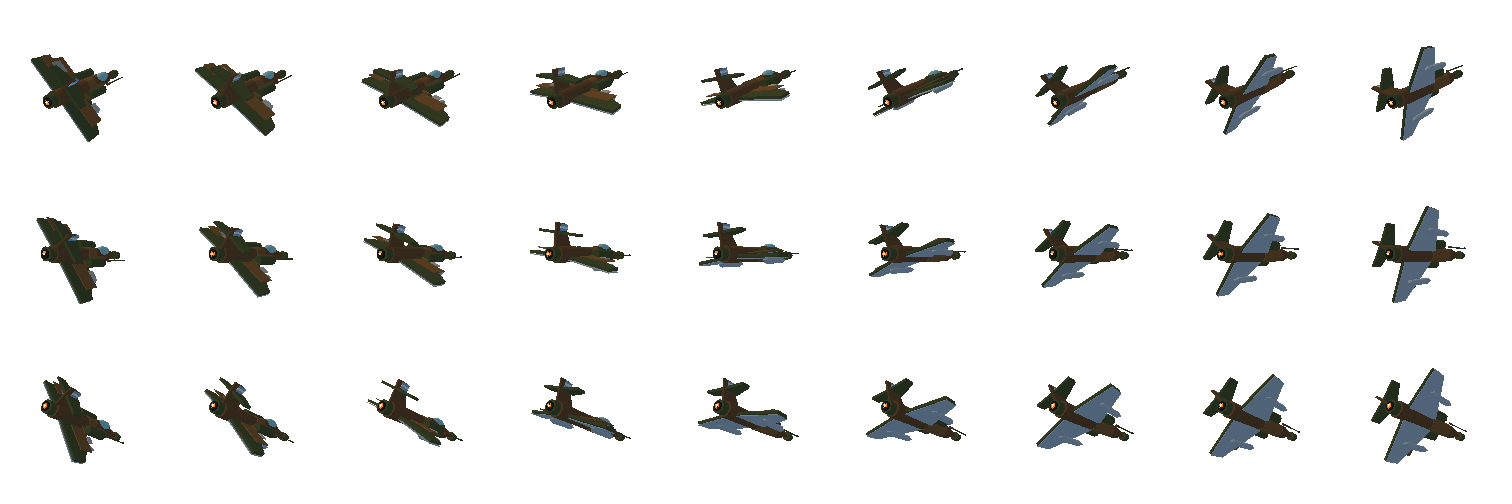
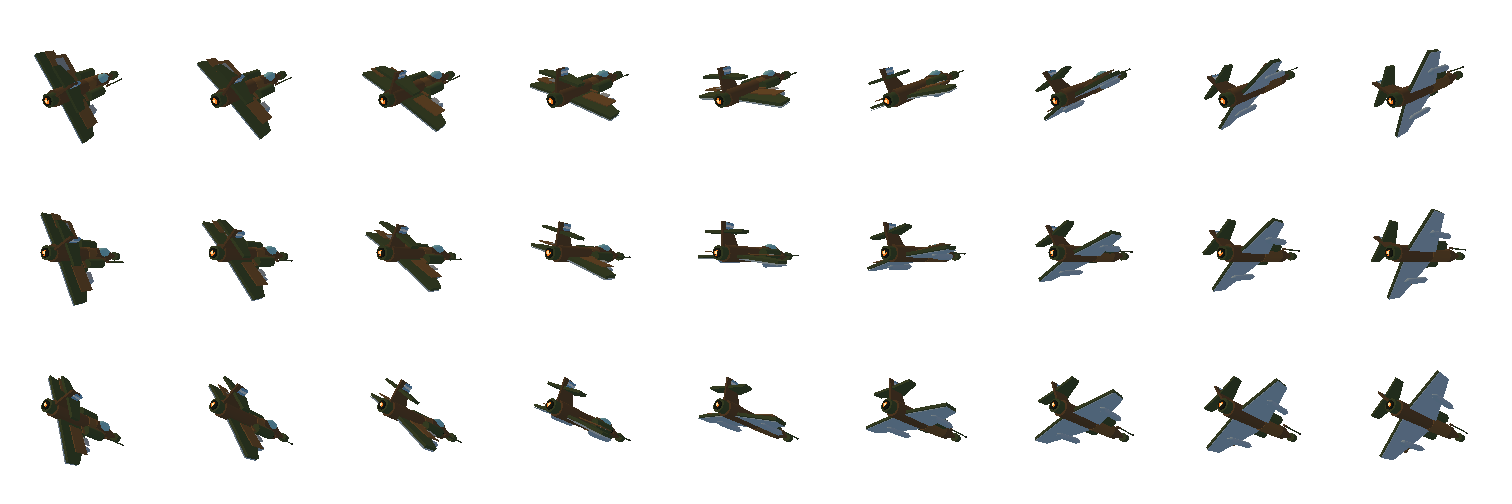
rasante: las alas VUELVEN AL AGUA — un 3/4 fotografico se lee como un viraje
Dos correcciones de Matias sobre la hoja del poder, y las dos tienen la misma forma: la
geometria estaba bien y la LECTURA estaba mal.

1. "Esta muy inclinado de base como si estuviese bajando." Cierto, y es la contracara de mirar
   desde abajo: la trompa esta mas lejos, se proyecta hacia abajo, y un avion nivelado se dibuja
   bajando. Se compensa levantandole la nariz al modelo.

2. "Esta como tocando el agua con un ala, como si estuviese doblando." Tambien cierto, y mas
   interesante: en un tres cuartos REAL las alas no quedan horizontales en pantalla. Medido
   sobre el alfa — la hoja base tiene su linea de alas en 0,00° exactos y la del poder, sin
   compensar, en -6,05°. O sea que una foto correcta se lee como un viraje. En un juego donde
   el alabeo ES una mecanica, eso no es un detalle estetico: es informacion equivocada.

EL BARRIDO SE MIDIO CON LAS DOS MAGNITUDES A LA VEZ (linea de alas y eje del fuselaje) porque
estan ACOPLADAS: sobre un modelo ya girado en yaw, cabecear tambien le inclina las alas. Por eso
la primera pasada —que solo miraba el eje— dejo las alas peor. Ganador: cabeceo +6 y alabeo -8,
con las alas en -0,86° y el eje en -1,98°. Las dos paralelas al agua, y el 3/4 entero intacto.

Y SE VA LA ROTACION DEL CARRIL, que fue el intento del medio y salio mal. Alineaba el avion con
el punto de fuga —geometricamente impecable: toda recta paralela al eje de vuelo converge ahi, y
[…]

diff --git a/src/render/plane.js b/src/render/plane.js
@@ -7,7 +7,7 @@
 // Recibe `selPlane` (que avion eligio el jugador — estado de menu, vive en game.js) y `viewMouse`
 // (resuelve la mira segun la camara — la camara sigue en game.js). El resto lo lee de los stores.
 
-import { ctx, px, PZ, U, W, HOR } from './ctx.js';
+import { ctx, px, PZ, U } from './ctx.js';
 import { plane, cfg, S } from '../core/state.js';
 import { run } from '../core/run.js';
 import { inp } from '../core/input.js';
@@ -606,12 +606,6 @@ export function drawPlane(selPlane, viewMouse, camScale, ras) {
   // camara que rola con el. hz vale justo lo que hay que restar. Con FIJO vale 0 y todo esto se
   // comporta igual que siempre. Ver core/horizon.js.
   const hz = hzSprite();
-  // ¿SE VA A DIBUJAR CON LA HOJA DEL PODER? Se resuelve aca arriba —y no adentro de la rama— por
-  // el mismo motivo que la pose: el giro del sprite lo consume tambien la estela, que se dibuja
-  // despues del restore(). La pirueta empinada gana (ver la rama de dibujo), asi que no cuenta.
-  const skRas = ras && rosterActive() ? skinOf(pilotName(pilotIdx(run.squad, run.lives))) : null;
-  const rasTilt = !!(ras && useSheet && !run.mvSteep
-    && (skRas ? skRas.sheet3Img : pl.sheet3Ok));
   // EL GIRO TOTAL DEL SPRITE, resuelto en UN SOLO LUGAR.
   //
   // Antes cada rama llamaba a `ctx.rotate` por su cuenta y el angulo se perdia ahi adentro. La
@@ -627,29 +621,17 @@ export function drawPlane(selPlane, viewMouse, camScale, ras) {
   const pcPose = Math.max(-1, Math.min(1, plane.pitch));
   const rowPose = pcPose > 0.33 ? 0 : pcPose < -0.33 ? 2 : 1;
   const prRoll = rolling ? Math.min(1, run.mvT / MOVES.tonel.dur) : 0;   // 0→1 durante el tonel
-  // EL SPRITE DEL PODER SE ALINEA CON EL CARRIL, no con la horizontal de la pantalla.
-  //
-  // Lo pidio Matias con el mejor criterio posible: "usa como referencia la linea roja del
-  // objetivo, tiene que quedar paralela con la trompa del avion". Y tiene razon — no es gusto,
-  // es la proyeccion. Toda recta paralela al eje +z (las lineas del carril, la estela, el
-  // fuselaje del avion) converge en el MISMO punto de fuga, que en esta proyeccion es
-  // (W/2, HOR). Durante el poder la camara se corre 10 unidades al costado, asi que el avion
-  // queda ~96 px a la izquierda de ese punto: su eje YA NO es horizontal en pantalla, apunta al
-  // punto de fuga. La hoja esta horneada con el eje recto dentro del frame, asi que lo unico que
-  // falta es girarla ese angulo.
-  //
-  // SE CALCULA, NO SE TABULA: sale de la posicion proyectada del avion, asi que acompaña solo
-  // cuando el jugador se corre por el carril (el angulo va de 12° a 26° de punta a punta). Sin el
-  // poder vale 0 y no se toca nada.
-  //
-  // No degenera: el poder garantiza `lat` = 10, o sea al menos 45 px de corrimiento — el caso
-  // patologico (avion justo sobre el eje optico, donde la direccion de fuga es vertical) no puede
-  // ocurrir mientras esta hoja se dibuja.
-  const carril = rasTilt ? Math.atan2(HOR - s.y, W / 2 - s.x) : 0;
-  const spinTot = (rolling ? run.mvRoll + hz
+  // EL SPRITE DEL PODER NO SE GIRA, Y SE PROBO AL REVES. Un rato existio aca una rotacion que
+  // alineaba el avion con el punto de fuga del carril — geometricamente impecable: toda recta
+  // paralela al eje de vuelo converge ahi, y durante el poder el avion queda 96 px al costado,
+  // asi que su eje en pantalla NO es horizontal. El problema es que un sprite es plano: rotarlo
+  // 16° no le cabecea la trompa, le ROLA las alas, y el avion pasaba a leerse virando con una
+  // punta en el agua. Lo corrige la HOJA (cabeceo y alabeo compensados en el horneado), que es el
+  // unico lugar donde se puede inclinar una cosa sin inclinar la otra.
+  const spinTot = rolling ? run.mvRoll + hz
     : run.mvRoll ? run.mvRoll + hz + wob
     : useSheet ? wob
-    : bank * 0.42 + wob) + carril;
+    : bank * 0.42 + wob;
   ctx.rotate(spinTot);
   if (rolling) ctx.scale(0.94 + 0.06 * Math.cos(prRoll * Math.PI * 2), 1);   // leve pulso: vende el giro
   else if (!run.mvRoll && !useSheet) ctx.scale(1 - Math.abs(bank) * 0.26, 1 - plane.pitch * 0.05);

diff --git a/tools/bake_planes.html b/tools/bake_planes.html
@@ -75,11 +75,25 @@
     // estuviese bajando". Es el mismo efecto que ya habia aparecido en la Chancha.
     //
     // Se corrige levantandole la nariz al MODELO hasta que su eje quede horizontal DENTRO del
-    // frame. El numero no se eligio a ojo: se horneo un barrido 0/3/5/7/10 y se midio el angulo
-    // del eje sobre el alfa (la punta mas a la derecha contra el centroide del naranja del
-    // escape). Da -9.72° sin compensar, -2.83° con +5 y **-0.21° con +7**, que es recto.
-    // Si se toca RAS_ELEV hay que volver a medirlo: la compensacion es del orden de 0,7 * elev.
-    const RAS_PITCH = 7;
+    // frame. El numero no se eligio a ojo: se horneo un barrido y se midio el angulo del eje
+    // sobre el alfa (la punta mas a la derecha contra el centroide del naranja del escape).
+    const RAS_PITCH = 6;
+    // Y LA COMPENSACION DE ALABEO, que aparecio despues y por el mismo camino: Matias vio el
+    // avion "como tocando el agua con un ala, como si estuviese doblando". Tambien es cierto, y
+    // tambien es la proyeccion — en un tres cuartos REAL las alas NO quedan horizontales en
+    // pantalla: la hoja base tiene su linea de alas en 0,00° exactos y esta, sin compensar, en
+    // -6,05°. O sea que un 3/4 fotografico se lee como un viraje, y en un juego donde el alabeo
+    // ES una mecanica eso no es un detalle: es informacion equivocada.
+    //
+    // Se corrige rolando el modelo hasta que la linea de alas vuelva a cero. Se midio un barrido
+    // de yaw x alabeo con las dos magnitudes a la vez (linea de alas Y eje del fuselaje), porque
+    // estan ACOPLADAS: sobre un modelo ya girado en yaw, cabecear tambien inclina las alas.
+    // El ganador es este: alas -0,86° y eje -1,98°, las dos paralelas al agua.
+    //
+    // LO QUE CUESTA, dicho en voz alta: la columna del medio deja de ser "alabeo 0 del mundo" y
+    // pasa a ser "alabeo 0 EN PANTALLA". Es la misma clase de mentira que la elevacion, y se paga
+    // por el mismo motivo — un recorte 2D se juzga por lo que se lee, no por lo que mide.
+    const RAS_ROLL = -8;
 
     // EL HORNO ES COMPARTIDO (tools/bake_common.js): luz, camara y primitivas salen de ahi para
     // los cuatro horneadores. Aca solo quedan los parametros de ESTA familia de hojas.
@@ -167,7 +181,7 @@
         PITCHES.forEach((pa, row) => {
           model.rotation.x = (pa + RAS_PITCH) * Math.PI / 180;   // + la compensacion (ver RAS_PITCH)
           ANGLES.forEach((a, i) => {
-            model.rotation.z = a * Math.PI / 180;
+            model.rotation.z = (a + RAS_ROLL) * Math.PI / 180;   // + la compensacion (ver RAS_ROLL)
             R3.render(sc, cam3);
             x23.drawImage(R3.domElement, i * FW3, row * FH3);
           });
